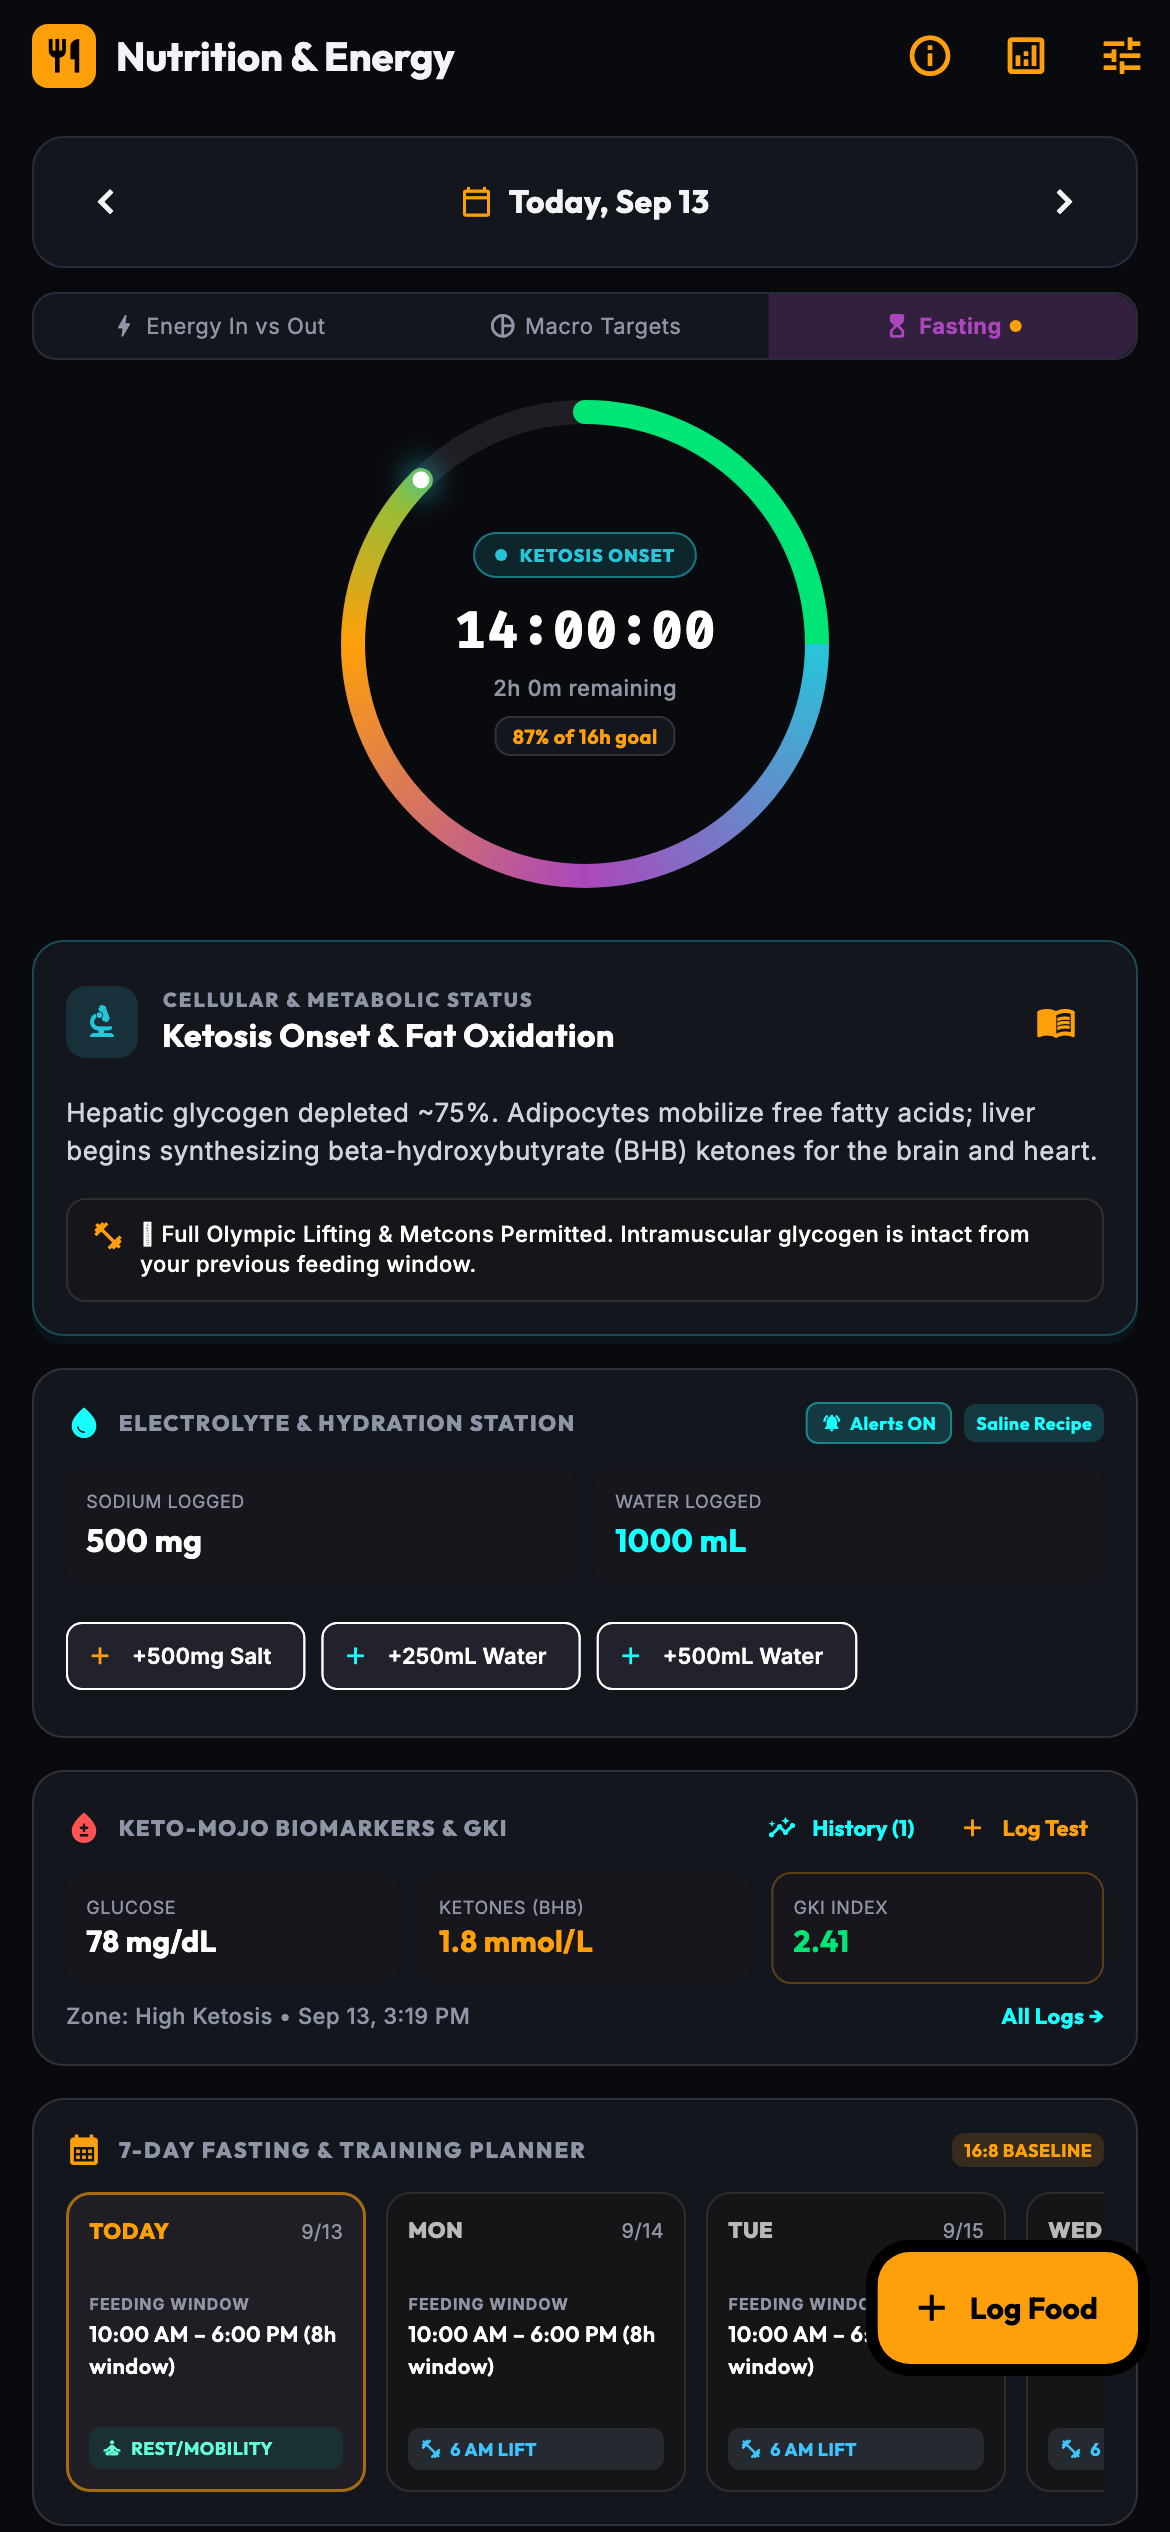
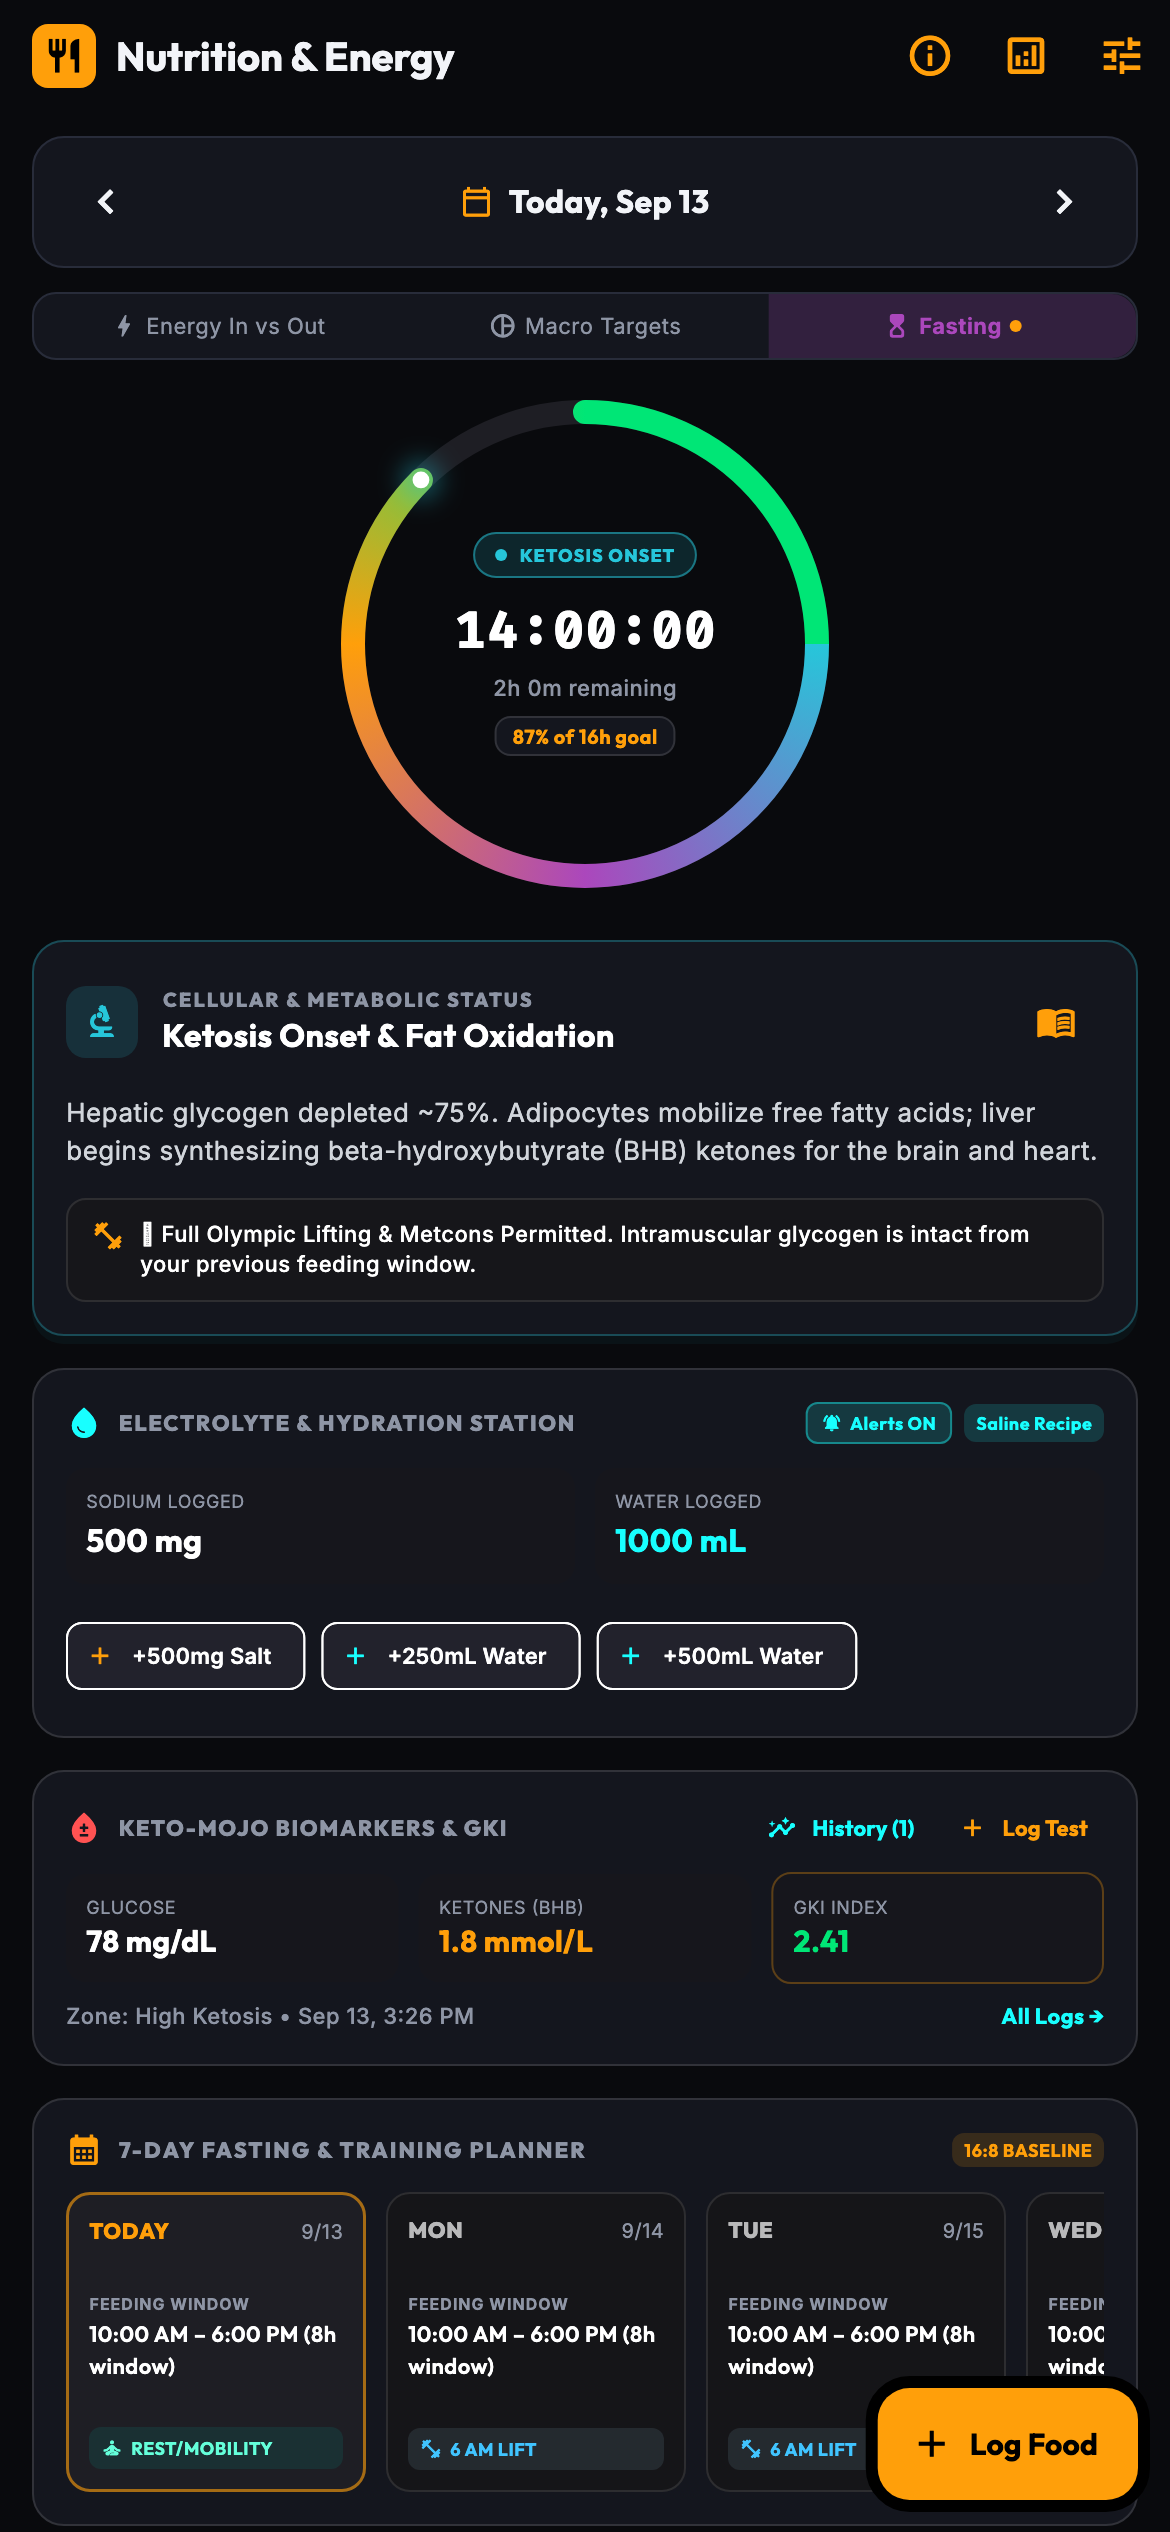
feat(nav): dynamically adjust MediaQuery bottom padding based on minidock presence

Changed region(s): [[0.7385, 0.8736, 0.9846, 0.9984], [0.3385, 0.78, 0.4, 0.8112]]

diff --git a/lib/main.dart b/lib/main.dart
@@ -231,23 +231,49 @@ class _MainNavigationContainerState extends State<MainNavigationContainer> {
       body: Stack(
         children: <Widget>[
           Positioned.fill(
-            child: isTest
-                ? IndexedStack(index: _currentIndex, children: screens)
-                : AnimatedSwitcher(
-                    duration: const Duration(milliseconds: 220),
-                    switchInCurve: Curves.easeOutCubic,
-                    switchOutCurve: Curves.easeInCubic,
-                    transitionBuilder: (child, animation) {
-                      return FadeTransition(
-                        opacity: animation,
-                        child: child,
-                      );
-                    },
-                    child: KeyedSubtree(
-                      key: ValueKey<int>(_currentIndex),
-                      child: screens[_currentIndex],
-                    ),
+            child: Consumer2<ActiveSessionProvider, ProgramProvider>(
+              builder: (context, session, program, _) {
+                final bool hasMiniDock = session.isActive ||
+                    (program.hasActiveDraft && session.isRestTimerRunning);
+
+                final MediaQueryData ambientMedia = MediaQuery.of(context);
+                final double dockHeight = hasMiniDock ? 144.0 : 80.0;
+                final double adjustedBottomPadding =
+                    ambientMedia.padding.bottom + dockHeight;
+                final double adjustedBottomViewPadding =
+                    ambientMedia.viewPadding.bottom + dockHeight;
+
+                final MediaQueryData adjustedMedia = ambientMedia.copyWith(
+                  padding: ambientMedia.padding.copyWith(
+                    bottom: adjustedBottomPadding,
                   ),
+                  viewPadding: ambientMedia.viewPadding.copyWith(
+                    bottom: adjustedBottomViewPadding,
+                  ),
+                );
+
+                return MediaQuery(
+                  data: adjustedMedia,
+                  child: isTest
+                      ? IndexedStack(index: _currentIndex, children: screens)
+                      : AnimatedSwitcher(
+                          duration: const Duration(milliseconds: 220),
+                          switchInCurve: Curves.easeOutCubic,
+                          switchOutCurve: Curves.easeInCubic,
+                          transitionBuilder: (child, animation) {
+                            return FadeTransition(
+                              opacity: animation,
+                              child: child,
+                            );
+                          },
+                          child: KeyedSubtree(
+                            key: ValueKey<int>(_currentIndex),
+                            child: screens[_currentIndex],
+                          ),
+                        ),
+                );
+              },
+            ),
           ),
           Positioned(
             left: 0,

diff --git a/test/navigation_overhaul_test.dart b/test/navigation_overhaul_test.dart
@@ -18,6 +18,7 @@ import 'package:oly/providers/settings_provider.dart';
 import 'package:oly/services/recovery_engine_service.dart';
 import 'package:oly/services/storage_service.dart';
 import 'package:oly/views/breathing/wim_hof_session_screen.dart';
+import 'package:oly/views/dashboard_screen.dart';
 import 'package:oly/views/recovery_session_screen.dart';
 import 'package:oly/views/workout_session_screen.dart';
 import 'package:oly/widgets/active_session_mini_dock.dart';
@@ -311,6 +312,40 @@ void main() {
       await tester.pumpAndSettle();
 
       expect(find.text('Snatch'), findsNothing);
+    });
+
+    testWidgets('MainNavigationContainer dynamically adjusts MediaQuery bottom padding based on minidock presence', (
+      tester,
+    ) async {
+      final ActiveSessionProvider sessionProvider = ActiveSessionProvider();
+
+      await tester.pumpWidget(createTestApp(sessionProvider: sessionProvider));
+      await tester.pumpAndSettle();
+
+      // Find the BuildContext of a screen inside MainNavigationContainer (e.g. DashboardScreen)
+      final BuildContext dashboardContext = tester.element(find.byType(DashboardScreen));
+      final double inactiveBottomPadding = MediaQuery.paddingOf(dashboardContext).bottom;
+      expect(inactiveBottomPadding, equals(80.0));
+
+      // Start an active session (minidock becomes visible)
+      sessionProvider.startSession(
+        sessionTitle: 'Squat Cycle',
+        currentExercise: 'Back Squat',
+        currentSetInfo: 'Set 1 of 5',
+      );
+      await tester.pumpAndSettle();
+
+      final BuildContext activeContext = tester.element(find.byType(DashboardScreen));
+      final double activeBottomPadding = MediaQuery.paddingOf(activeContext).bottom;
+      expect(activeBottomPadding, equals(144.0));
+      expect(activeBottomPadding - inactiveBottomPadding, equals(64.0));
+
+      // End session (minidock disappears)
+      sessionProvider.endSession();
+      await tester.pumpAndSettle();
+
+      final BuildContext finalContext = tester.element(find.byType(DashboardScreen));
+      expect(MediaQuery.paddingOf(finalContext).bottom, equals(80.0));
     });
 
     testWidgets('AthleteSummaryOverviewCard renders daily briefing details', (

diff --git a/lib/views/nutrition/nutrition_dashboard_screen.dart b/lib/views/nutrition/nutrition_dashboard_screen.dart
@@ -1357,7 +1357,7 @@ class _NutritionDashboardScreenState extends State<NutritionDashboardScreen> {
 
 /// Floating action button location positioned gracefully above the floating capsule dock.
 class DockClearanceFabLocation extends FloatingActionButtonLocation {
-  const new({this.bottomOffset = 84.0});
+  const new({this.bottomOffset = 16.0});
 
   final double bottomOffset;
 
